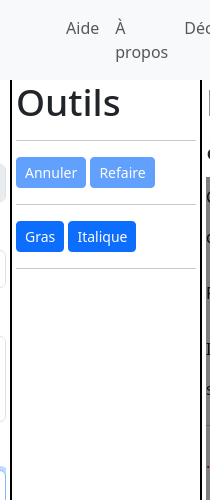
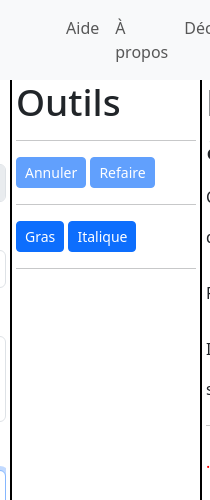
Fix race condition introduced in 7e474ce397

Changed region(s): [[0.9714, 0.33, 1.0, 1.0]]

diff --git a/frontend/src/frontend/views/project/textbook/page/ProjectTextbookPageExerciseView.vue b/frontend/src/frontend/views/project/textbook/page/ProjectTextbookPageExerciseView.vue
@@ -2,7 +2,6 @@
 import { ref, computed, reactive, watch, nextTick } from 'vue'
 import { useRouter } from 'vue-router'
 import { useI18n } from 'vue-i18n'
-import { computedAsync, watchThrottled } from '@vueuse/core'
 
 import { BButton, BBusy } from '$/frontend/components/opinion/bootstrap'
 import { useApiStore } from '$frontend/stores/api'
@@ -16,12 +15,12 @@ import AdaptedExercise from './AdaptedExercise.vue'
 import ToolsGutter from './ToolsGutter.vue'
 import UndoRedoTool from './UndoRedoTool.vue'
 import { useExerciseCreationHistoryStore } from './ExerciseCreationHistoryStore'
-import { type Model, makeModel, assignModelFrom, getParsed, save } from '$frontend/components/ExerciseFieldsForm.vue'
+import { makeModel, assignModelFrom, getParsed, save } from '$frontend/components/ExerciseFieldsForm.vue'
 import TextSelectionModal from './TextSelectionModal.vue'
 import type { TextualFieldName } from '$/frontend/components/ExerciseFieldsForm.vue'
 import AdaptationDetailsFieldsForm from '$/frontend/components/AdaptationDetailsFieldsForm.vue'
 import TextPicker from './TextPicker.vue'
-import type { PdfFile } from '$/frontend/stores/api'
+import type { Exists, InCache, ParsedExercise, PdfFile } from '$/frontend/stores/api'
 import type { PDFPageProxy } from 'pdfjs-dist'
 import BasicFormattingTools from './BasicFormattingTools.vue'
 
@@ -181,33 +180,22 @@ async function saveThenNext() {
   }
 }
 
-const throttledModelLateness = ref(0)
-watch(model, () => throttledModelLateness.value++)
-const parsedExerciseWillLoadSoon = computed(() => throttledModelLateness.value > 0)
-const throttledModel = ref<Model>(JSON.parse(JSON.stringify(model)))
-watchThrottled(
-  model,
-  () => {
-    throttledModel.value = JSON.parse(JSON.stringify(model))
-    nextTick(() => {  // To ensure there is no brief moment where 'lateness' is zero but 'isLoading' is not yet true.
-      throttledModelLateness.value = 0
-    })
-  },
-  {throttle: 500},
-)
+const parsedExercise = ref<ParsedExercise & InCache & Exists | null>(null)
 const parsedExerciseIsLoading = ref(false)
-// This 'computedAsync' gets cancelled when the user types faster than the server can respond,
-// and only the last response is actually assigned to 'parsedExercise' by VueUse.
-// Thus, 'adaptedExercise' and 'deltas' are -recomputed only when they correspond to the current value of the field.
-// This is the expected behavior, but is very difficult to test. An attempt to test it has been made in
-//   it("keeps what's been typed in WYSIWYG fields regardless of the typing speed and server response time"
-// but is arguably fragile. So... don't mess this up, future me!
-const parsedExercise = computedAsync(
-  () => getParsed(throttledModel.value),
-  null,
-  parsedExerciseIsLoading,
-)
-const parsedExerciseBusy = computed(() => parsedExerciseWillLoadSoon.value || parsedExerciseIsLoading.value)
+const parsedExerciseNeedsLoading = ref(true)
+watch(model, () => { parsedExerciseNeedsLoading.value = true })
+watch(parsedExerciseNeedsLoading, async () => {
+  while (parsedExerciseNeedsLoading.value) {
+    const modelBefore = JSON.stringify(model)
+    parsedExerciseIsLoading.value = true
+    const parsed = await getParsed(model)
+    if (JSON.stringify(model) === modelBefore) {
+      parsedExercise.value = parsed
+      parsedExerciseIsLoading.value = false
+      parsedExerciseNeedsLoading.value = false
+    }
+  }
+}, {immediate: true})
 
 const adaptedExercise = computed(() => {
   if (parsedExercise.value === null) {
@@ -327,7 +315,7 @@ const toolSlotNames = computed(() => {
           <template #right>
             <div class="h-100 overflow-auto" data-cy="right-col-2">
               <h1>{{ $t('adaptation') }}</h1>
-              <BBusy :busy="parsedExerciseBusy">
+              <BBusy :busy="parsedExerciseIsLoading">
                 <AdaptedExercise
                   v-if="adaptedExercise !== null"
                   :projectId="projectId"

diff --git a/frontend/src/frontend/views/project/textbook/page/ProjectTextbookPageNewExerciseView.vue b/frontend/src/frontend/views/project/textbook/page/ProjectTextbookPageNewExerciseView.vue
@@ -3,7 +3,6 @@ import { ref, computed, reactive, watch, nextTick } from 'vue'
 import { onMounted } from 'vue'
 import { useRouter } from 'vue-router'
 import { useI18n } from 'vue-i18n'
-import { computedAsync, watchThrottled } from '@vueuse/core'
 
 import { BButton, BBusy } from '$/frontend/components/opinion/bootstrap'
 import bc from '$frontend/components/breadcrumbs'
@@ -15,14 +14,14 @@ import TwoResizableColumns from '$frontend/components/TwoResizableColumns.vue'
 import ExerciseFieldsForm from '$/frontend/components/ExerciseFieldsForm.vue'
 import { useExerciseCreationHistoryStore } from './ExerciseCreationHistoryStore'
 import { useApiStore } from '$/frontend/stores/api'
-import type { PdfFile } from '$/frontend/stores/api'
+import type { Exists, InCache, ParsedExercise, PdfFile } from '$/frontend/stores/api'
 import AdaptedExercise from './AdaptedExercise.vue'
 import ToolsGutter from './ToolsGutter.vue'
 import UndoRedoTool from './UndoRedoTool.vue'
 import type { TextualFieldName } from '$/frontend/components/ExerciseFieldsForm.vue'
 import AdaptationDetailsFieldsForm from '$/frontend/components/AdaptationDetailsFieldsForm.vue'
 import TextSelectionModal from './TextSelectionModal.vue'
-import { type Model, makeModel, resetModel, getParsed, create, suggestNextNumber } from '$frontend/components/ExerciseFieldsForm.vue'
+import { makeModel, resetModel, getParsed, create, suggestNextNumber } from '$frontend/components/ExerciseFieldsForm.vue'
 import type { PDFPageProxy } from 'pdfjs-dist'
 import BasicFormattingTools from './BasicFormattingTools.vue'
 
@@ -156,27 +155,22 @@ function goToPrevious() {
   })
 }
 
-const throttledModelLateness = ref(0)
-watch(model, () => throttledModelLateness.value++)
-const parsedExerciseWillLoadSoon = computed(() => throttledModelLateness.value > 0)
-const throttledModel = ref<Model>(JSON.parse(JSON.stringify(model)))
-watchThrottled(
-  model,
-  () => {
-    throttledModel.value = JSON.parse(JSON.stringify(model))
-    nextTick(() => {  // To ensure there is no brief moment where 'lateness' is zero but 'isLoading' is not yet true.
-      throttledModelLateness.value = 0
-    })
-  },
-  {throttle: 500},
-)
+const parsedExercise = ref<ParsedExercise & InCache & Exists | null>(null)
 const parsedExerciseIsLoading = ref(false)
-const parsedExercise = computedAsync(
-  () => getParsed(throttledModel.value),
-  null,
-  parsedExerciseIsLoading,
-)
-const parsedExerciseBusy = computed(() => parsedExerciseWillLoadSoon.value || parsedExerciseIsLoading.value)
+const parsedExerciseNeedsLoading = ref(true)
+watch(model, () => { parsedExerciseNeedsLoading.value = true })
+watch(parsedExerciseNeedsLoading, async () => {
+  while (parsedExerciseNeedsLoading.value) {
+    const modelBefore = JSON.stringify(model)
+    parsedExerciseIsLoading.value = true
+    const parsed = await getParsed(model)
+    if (JSON.stringify(model) === modelBefore) {
+      parsedExercise.value = parsed
+      parsedExerciseIsLoading.value = false
+      parsedExerciseNeedsLoading.value = false
+    }
+  }
+}, {immediate: true})
 
 const adaptedExercise = computed(() => {
   if (parsedExercise.value === null) {
@@ -298,7 +292,7 @@ const toolSlotNames = computed(() => {
         <template #right>
           <div class="h-100 overflow-auto" data-cy="right-col-2">
             <h1>{{ $t('adaptation') }}</h1>
-            <BBusy :busy="parsedExerciseBusy">
+            <BBusy :busy="parsedExerciseIsLoading">
               <AdaptedExercise
                 v-if="adaptedExercise !== null"
                 :projectId="projectId"

diff --git a/frontend/src/frontend/components/ExerciseFieldsForm.vue b/frontend/src/frontend/components/ExerciseFieldsForm.vue
@@ -290,6 +290,12 @@ const focusedWysiwygField = computed(() => {
   }
 })
 
+const instructionsDeltas = computed(() => props.deltas === null ? [] : props.deltas.instructions)
+const wordingDeltas = computed(() => props.deltas === null ? [] : props.deltas.wording)
+const exampleDeltas = computed(() => props.deltas === null ? [] : props.deltas.example)
+const clueDeltas = computed(() => props.deltas === null ? [] : props.deltas.clue)
+
+
 const selBlotColors = computed(() => Object.fromEntries(model.value.selectThingsAdaptationOptions.colors.map((color, i) => [`--sel-blot-color-${i + 1}`, color])))
 
 defineExpose({
@@ -312,7 +318,7 @@ defineExpose({
       ref="instructionsEditor"
       :label="$t('exerciseInstructions')"
       :formats="wysiwygFormats[model.adaptationType].instructions"
-      v-model="model.instructions" :delta="deltas === null ? [] : deltas.instructions"
+      v-model="model.instructions" :delta="instructionsDeltas"
     />
     <BLabeledTextarea
       v-else
@@ -325,7 +331,7 @@ defineExpose({
       ref="wordingEditor"
       :label="$t('exerciseWording')"
       :formats="wysiwygFormats[model.adaptationType].wording"
-      v-model="model.wording" :delta="deltas === null ? [] : deltas.wording"
+      v-model="model.wording" :delta="wordingDeltas"
     />
     <BLabeledTextarea
       v-else
@@ -341,7 +347,7 @@ defineExpose({
             ref="exampleEditor"
             :label="$t('exerciseExample')"
             :formats="wysiwygFormats[model.adaptationType].example"
-            :delta="deltas === null ? [] : deltas.example"
+            :delta="exampleDeltas"
             v-model="model.example"
           />
           <OptionalTextarea
@@ -357,7 +363,7 @@ defineExpose({
             ref="clueEditor"
             :label="$t('exerciseClue')"
             :formats="wysiwygFormats[model.adaptationType].clue"
-            :delta="deltas === null ? [] : deltas.clue"
+            :delta="clueDeltas"
             v-model="model.clue"
           />
           <OptionalTextarea

diff --git a/frontend/e2e-tests/wysiwyg-edition.cy.ts b/frontend/e2e-tests/wysiwyg-edition.cy.ts
@@ -78,19 +78,34 @@ describe('Gabby', () => {
       cy.get('@adaptationType').select(adaptationType)
 
       for (const fieldAlias of ['@instructions', '@wording', '@example', '@clue']) {
-        cy.get(fieldAlias).click().type('plain')
+        cy.get(fieldAlias).click().type('{selectAll}plain', {delay: 0})
         cy.get('@bold').click()
-        cy.get(fieldAlias).type('bold')
+        cy.get(fieldAlias).type('bold', {delay: 0})
         cy.get('@italic').click()
-        cy.get(fieldAlias).type('italic')
+        cy.get(fieldAlias).type('italic', {delay: 0})
 
+        cy.get(fieldAlias).should('contain.text', 'plainbolditalic')
         cy.get('bold-blot:contains("bold")').should('exist')
         cy.get('italic-blot:contains("italic")').should('exist')
+        notBusy()
+        cy.get(fieldAlias).should('contain.text', 'plainbolditalic')
+        cy.get('bold-blot:contains("bold")').should('exist')
+        cy.get('italic-blot:contains("italic")').should('exist')
+        // cy.get('div:has(>h1:contains("Adapted exercise"))').its('length').should('eq', 1)
+        cy.get('div:has(>h1:contains("Adapted exercise")) i:contains("italic")').should('exist')
+        cy.get('div:has(>h1:contains("Adapted exercise")) b:contains("bold")').should('exist')
 
-        cy.get(fieldAlias).type('{selectAll}{del}X')
+        cy.get(fieldAlias).type('{selectAll}X', {delay: 0})
 
+        cy.get(fieldAlias).should('contain.text', 'X')
         cy.get('bold-blot:contains("bold")').should('not.exist')
         cy.get('italic-blot:contains("italic")').should('not.exist')
+        notBusy()
+        cy.get(fieldAlias).should('contain.text', 'X')
+        cy.get('bold-blot:contains("bold")').should('not.exist')
+        cy.get('italic-blot:contains("italic")').should('not.exist')
+        cy.get('div:has(>h1:contains("Adapted exercise")) i:contains("italic")').should('not.exist')
+        cy.get('div:has(>h1:contains("Adapted exercise")) b:contains("bold")').should('not.exist')
       }
     }
   })

diff --git a/frontend/e2e-tests/user-doc.cy.ts b/frontend/e2e-tests/user-doc.cy.ts
@@ -122,6 +122,7 @@ describe('Gabby', () => {
     visit('/project-xkopqm/textbook-klxufv/page-6/exercise-wbqloc', {locale: 'fr', pdf: 'test'})
 
     cy.get('label:contains("Énoncé") + div.ql-container > div.ql-editor').type('{selectAll}... vide\n... vident')
+    notBusy()
     cy.screenshot('project-textbook-page-exercise/modify-exercise', {clip: {x: 0, y: 50, width: 575, height: 1000}})
 
     cy.screenshot('project-textbook-page-exercise/tools', {clip: {x: 560, y: 0, width: 210, height: 500}})

diff --git a/frontend/e2e-tests/textbook-exercise-edition.cy.ts b/frontend/e2e-tests/textbook-exercise-edition.cy.ts
@@ -151,6 +151,6 @@ describe('Gabby', () => {
     }
     notBusy()
 
-    cy.get('@parsedExercises.all').its('length').should('be.lessThan', 15)
+    cy.get('@parsedExercises.all').its('length').should('be.lessThan', 19)
   })
 })
